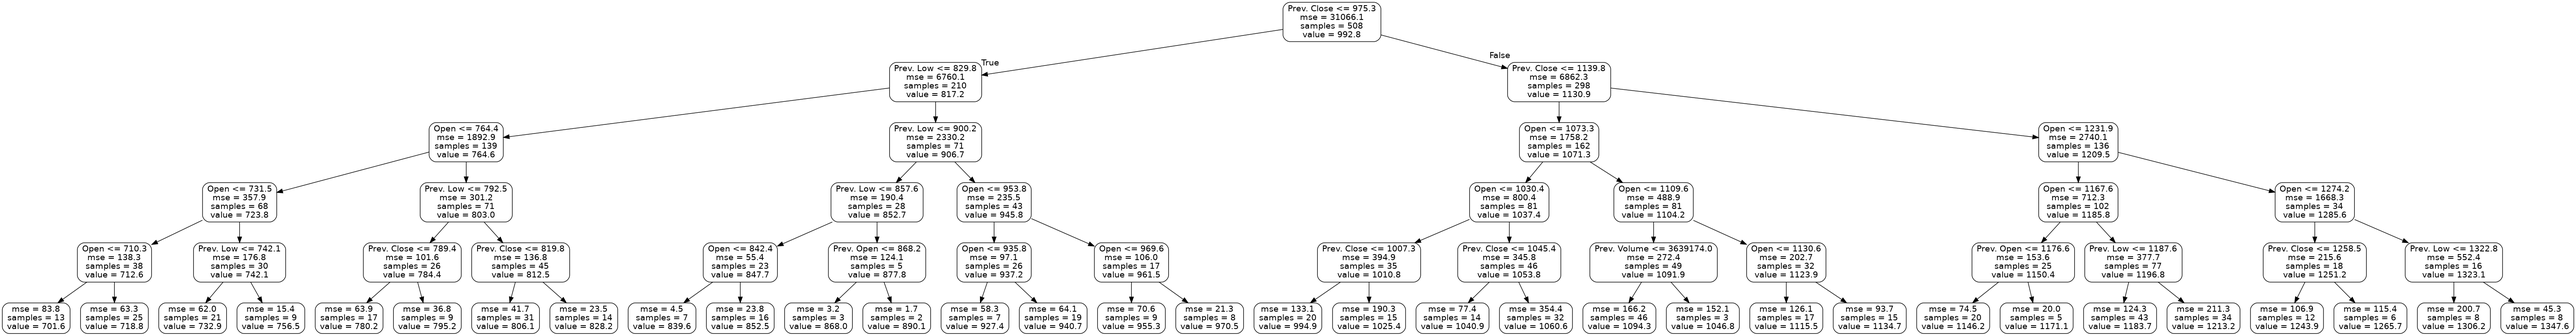
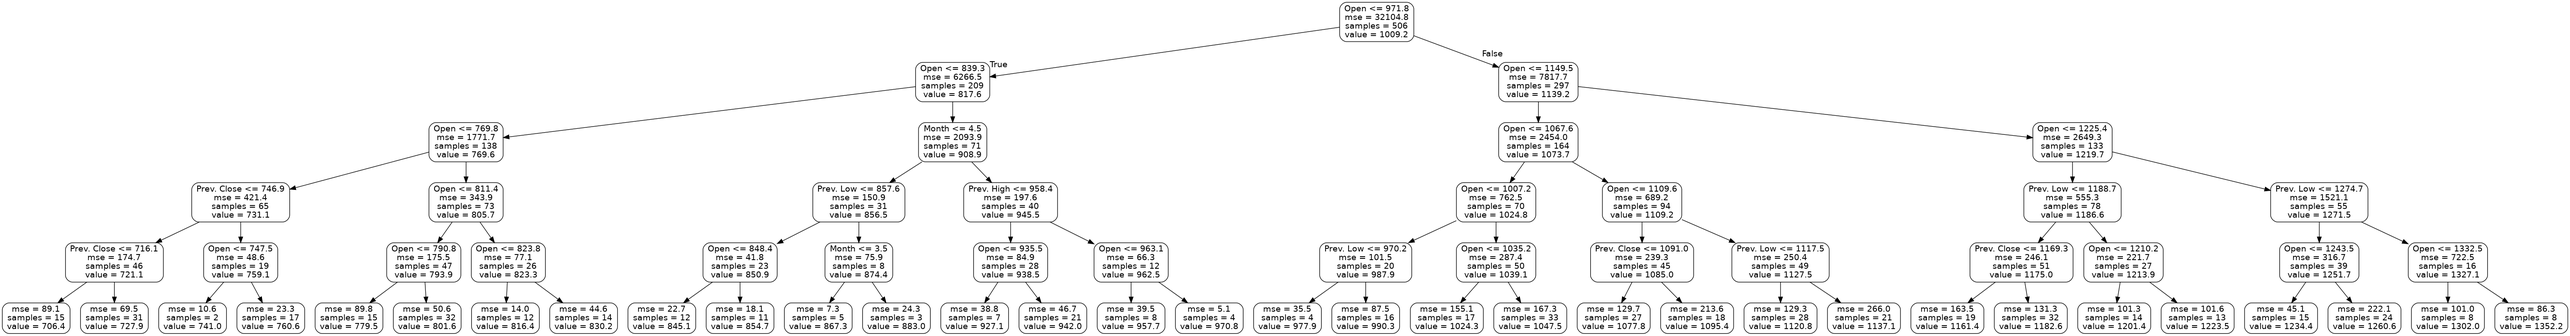
Added prototype withut 'Open' input

diff --git a/msft-pred/prot_rf_no_open.py b/msft-pred/prot_rf_no_open.py
@@ -1,12 +1,13 @@
 #!/usr/bin/env python3
 # -*- coding: utf-8 -*-
 """
-Created on Wed Nov 25 15:47:28 2020
+Created on Thu Nov 26 18:02:30 2020
 
 @author: ben
 
-Initial prototype - Random Forest with basic input
+Create a new version of the prototype random forest without 'Open' input
 """
+
 
 import matplotlib.pyplot as plt 
 from alpha_vantage.timeseries import TimeSeries
@@ -31,6 +32,7 @@ input_data['Open'] = data['1. open']
 input_data.columns= ['Prev. Open','Prev. High', 'Prev. Low', 'Prev. Close', 'Prev. Volume', 'Day', 'Month', 'Year', 'Open']
 #print(input_data)
 input_data = input_data.drop(input_data.index[0])
+del input_data['Open']
 print(input_data)
 
 # Set output variables
@@ -52,8 +54,6 @@ rf.fit(train_data, train_labels)
 # test model
 predictions = rf.predict(test_data)
 
-
-
 # error
 errors = abs(predictions - test_labels)
 print("Avg error on model: ", round(np.mean(errors),2))
@@ -62,39 +62,6 @@ print("Avg error on model: ", round(np.mean(errors),2))
 mape = 100*(errors/test_labels)
 accuracy = 100 - np.mean(mape)
 print("Accuracy: ", round(accuracy, 2),"%")
-
-'''
-Test to predict direction accuracy
-'''
-correct__dir_guess = 0
-
-for i in range(len(test_labels)):
-    if (test_labels[i] >= test_data['Open'][i] and predictions[i] >= test_data['Open'][i]) or \
-       (test_labels[i] < test_data['Open'][i] and predictions[i] < test_data['Open'][i]):
-           correct__dir_guess += 1
-
-dir_guess_accuracy = (correct__dir_guess/len(test_labels))*100
-print('Accuracy of direction prediction: ', round(dir_guess_accuracy, 2),'%')          
-    
-# Example prediction  
-print('\n')    
-print(test_data['Open'][100])
-print(test_labels[100])
-print(predictions[100])
-
-
-# Interpret a tree example
-from sklearn.tree import export_graphviz
-import pydot
-
-# Example of shortened tree
-rf_small = RandomForestRegressor(n_estimators=10, max_depth = 5)
-rf_small.fit(train_data, train_labels)
-googl_tree_small = rf_small.estimators_[5]
-# save tree example
-export_graphviz(googl_tree_small, out_file = 'googl_small_tree.dot', feature_names = attribute_list, rounded = True, precision = 1)
-(graph, ) = pydot.graph_from_dot_file('googl_small_tree.dot')
-graph.write_png('googl_small_tree.png');
 
 
 
@@ -123,8 +90,6 @@ plt.ylabel('Importance')
 plt.xlabel('Variable')
 plt.title('Variable Importances')
 plt.show()
-
-
 
 
 
